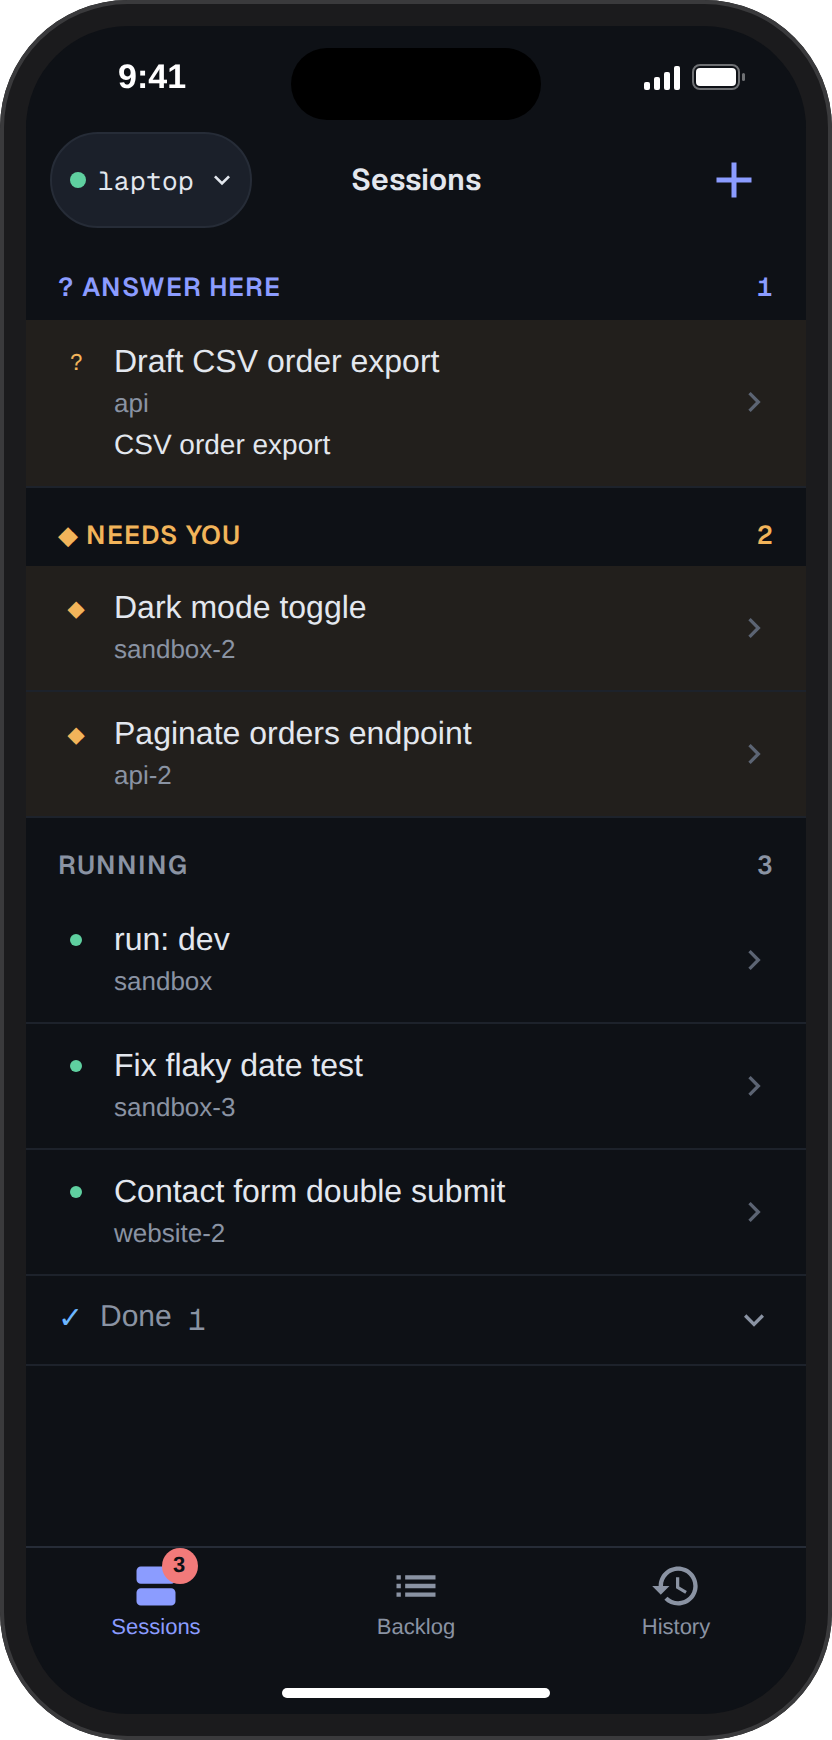
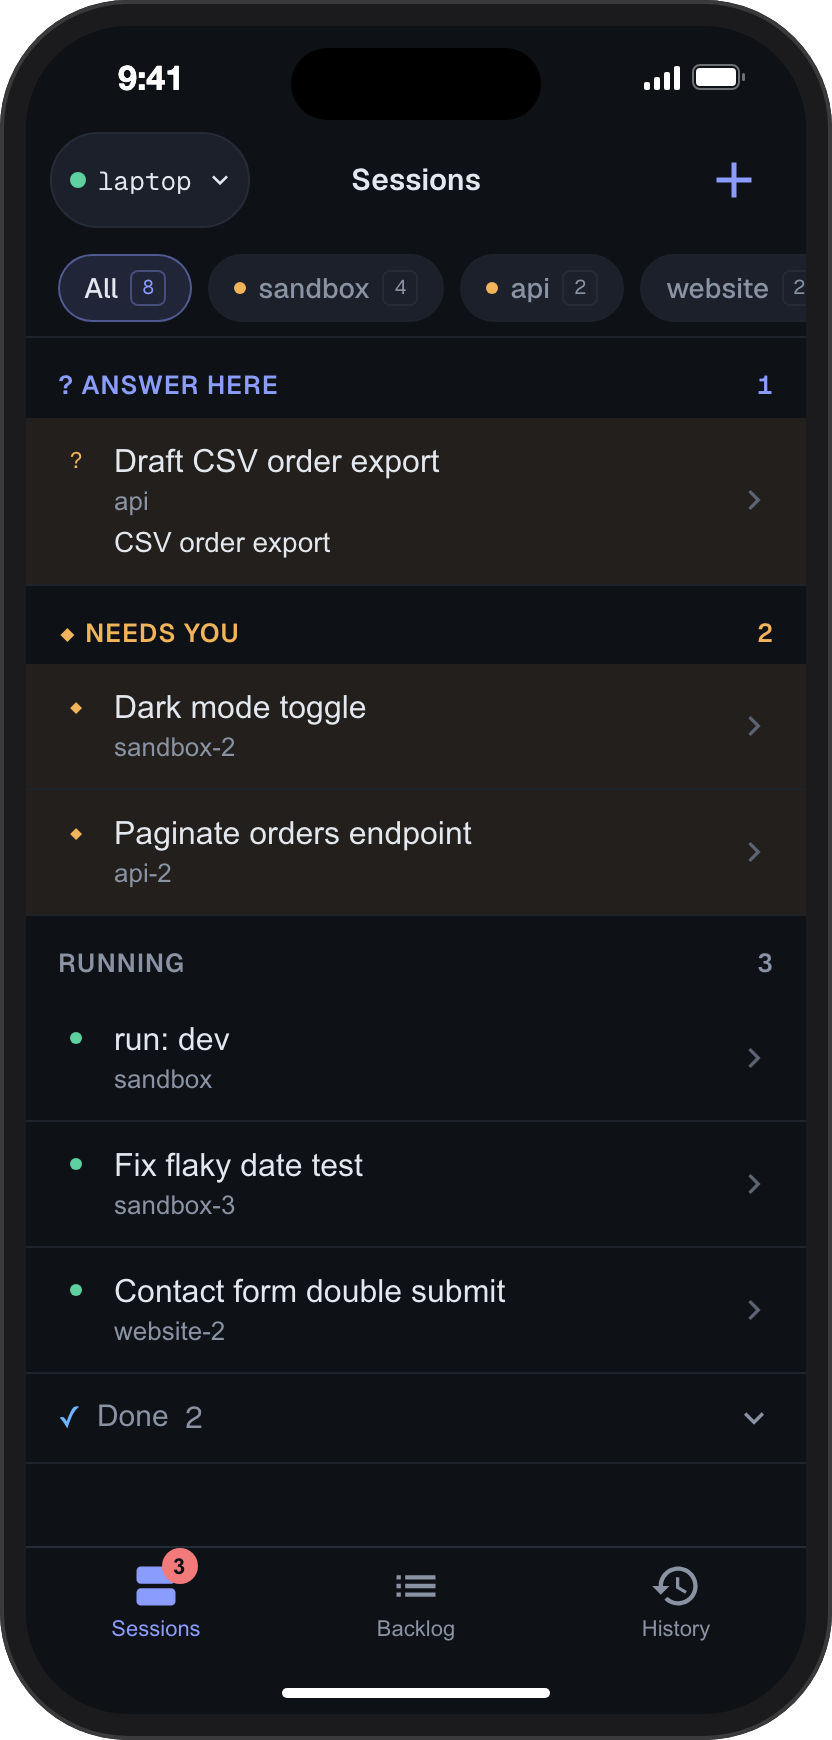
fix: refresh docs for recent stories

diff --git a/docs/src/content/docs/sessions-session-area.md b/docs/src/content/docs/sessions-session-area.md
@@ -17,13 +17,13 @@ screenshots:
       - click: text=Dark mode toggle
     crop: "[data-testid=session-top-bar]"
   - file: sessions-sdk.png
-    alt: A Claude (SDK) session showing its transcript, with the composer offering a suggested next prompt
+    alt: A Claude (SDK) session showing its transcript, with 🙄 on Claude's last reply and the composer offering a suggested next prompt
     route: /sessions
     scene: dashboard
     setup:
       - session:
           repo: website
-          prompt: Why does the footer overlap the cookie banner?
+          prompt: Why does the **footer** overlap the cookie banner in `Layout.tsx`?
           title: Cookie banner overlap
           harness: claude-sdk
           reply:
@@ -37,7 +37,7 @@ screenshots:
       width: 1280
       height: 640
   - file: sessions-sdk-queued.png
-    alt: A message queued in a Claude (SDK) session while Claude works, with its Edit and Remove buttons
+    alt: A comment on Claude's reply queued in a Claude (SDK) session while Claude works, with its Edit and Remove buttons
     route: /sessions
     scene: dashboard
     setup:
@@ -53,6 +53,9 @@ screenshots:
     actions:
       - click: text="Raise the cookie banner"
       - click: "[aria-label='Message Claude']"
+      - type: "> I'll raise the banner above it."
+      - press: Shift+Enter
+      - press: Shift+Enter
       - type: Check the modal still sits above the banner
       - press: Enter
       - hover: text=Check the modal still sits above the banner
@@ -60,7 +63,7 @@ screenshots:
       width: 1280
       height: 640
   - file: sessions-sdk-shell.png
-    alt: A shell command's output in a Claude (SDK) session, attached to the next message
+    alt: A shell command's output in a Claude (SDK) session, attached to the next message unless dropped with ×
     route: /sessions
     scene: dashboard
     setup:
@@ -127,11 +130,15 @@ A session on the [Claude (SDK)](../harnesses/#claude-sdk) harness has no termina
 In the composer:
 
 - :kbd[Enter] sends. :kbd[Shift+Enter], or :kbd[Enter] straight after a `\`, adds a line break.
-- While the field is empty after a turn, it shows the prompt Claude expects you to send next. :kbd[Tab] fills the field with it. On the phone, tap the suggestion above the reply field.
+- While the field is empty after a turn, it shows the prompt Claude expects you to send next. :kbd[Tab] or :kbd[ArrowRight] fills the field with it. On the phone, tap the suggestion above the reply field.
 - **Stop**, or :kbd[Esc], interrupts Claude's turn.
 - A message sent while Claude is working is queued until the turn ends. Hover a queued message to **Remove** it, or **Edit** it to take it back into the composer.
 
 ::screenshot{file="sessions-sdk-queued.png"}
+
+Click empty space in the transcript to put the cursor in the composer.
+
+🙄 on Claude's last reply asks it to say the same thing again, much more concisely.
 
 Select text in the transcript to comment on it, as in the [diff](../sessions-diff/#commenting).
 
@@ -141,7 +148,7 @@ Start a message with `!` to run it as a shell command in the session's working c
 
 ::screenshot{file="sessions-sdk-shell.png"}
 
-**Stop** on a running command's row, or :kbd[Esc] while it runs, stops it and keeps its output so far.
+**Stop** on a running command's row, or :kbd[Esc] while it runs, stops it and keeps its output so far. **×** on a finished command's row drops its output so it isn't attached.
 
 ## Your last message
 

diff --git a/docs/src/content/docs/cli-backlog.md b/docs/src/content/docs/cli-backlog.md
@@ -29,6 +29,7 @@ covers:
   - cli:backlog delete
   - cli:backlog comment
   - cli:backlog refresh-docs
+  - cli:backlog docs-screenshots
   - cli:docs unlock
   - cli:docs confirm
   - cli:backlog delete-comment
@@ -39,6 +40,8 @@ covers:
   - cli:backlog add-activity
   - cli:backlog record-slack
   - cli:backlog run
+  - cli:backlog run-phase
+  - cli:backlog land
   - cli:backlog next
   - cli:next
   - claude:next
@@ -97,6 +100,8 @@ These work on the current repo's [backlog](../backlog/). Item ids are written `a
 
 - `assist next [id]` (or `assist backlog next`) runs the item already in progress, or one you pick, then offers the next. With `[id]` it runs that item first; with no items left it starts `/draft`. `--once` stops after one item. In a terminal started by `assist next`, `assist draft`, `assist bug` or `assist refine`, `/next [id]` ends the current session and moves on to item `<id>`, or to whatever `assist next` picks.
 - `assist backlog run <id>` :badge[internal] runs an item's plan from the phase it is on. `--model <model>` overrides `harness.defaults.run.model` (`--no-model` runs on the harness's own default), and `--no-write` runs the harness without write access. Called by the dashboard's Build and `assist next`.
+- `assist backlog run-phase <id> <phase>` runs one of an item's ready phases in its own worktree, alongside its other ready phases, with `backlog.parallelPhases` on. `assist backlog run` starts it.
+- `assist backlog land` rebases a parallel phase's commits onto the branch it tracks, verifies again if that moved, and pushes. The agent running a parallel phase runs it.
 - `assist backlog refine [id]` :badge[internal] is the same as [`assist refine`](../launchers/). Called by agents working on backlog items.
 - `assist backlog rewind <id> <phase> --reason <reason>` :badge[internal] sends an item back to an earlier phase. Called by the review phase of a backlog run.
 - `assist backlog phase-done <id> <phase> <summary>` :badge[internal] marks a phase complete and records its summary. Called by the agent running each phase of a backlog run.
@@ -105,6 +110,7 @@ These work on the current repo's [backlog](../backlog/). Item ids are written `a
 
 - `assist backlog clone <origin>` clones an item's repo over SSH into `clone.baseDir`.
 - `assist backlog refresh-docs` queues a [Refresh docs](../backlog-docs/) story now for every done story no refresh covers yet, in a repo with `docs.refreshAfter` set, whatever its value.
+- `assist backlog docs-screenshots <refresh-id>` lists the stories a Refresh docs story covers whose commits changed UI, with the UI files each changed. Each `--story <id>=<file.png>` maps one to the screenshot that documents it, and the check passes once every one is mapped to a screenshot declared on a docs page and added or recaptured in the working tree.
 - `assist docs unlock` :badge[internal] lets the current phase of a backlog run edit docs pages and screenshots, which are otherwise left to Refresh docs, once you approve. It sends you a pin as a desktop notification. Called by agents whose docs edit was blocked.
 - `assist docs confirm <pin>` :badge[internal] approves that unlock with the pin from the notification. Called by agents whose docs edit was blocked, once you give them the pin.
 - `assist backlog move-repo <old-origin> [new-origin]` moves every item from one repo to another after a rename, the current repo when no new origin is given. `--yes` skips the prompt.

diff --git a/docs/src/content/docs/ios-app.md b/docs/src/content/docs/ios-app.md
@@ -41,6 +41,14 @@ screenshots:
     phone: true
     scene: dashboard
     waitFor: text=Dark mode toggle
+  - file: ios-app-repo-filter.png
+    alt: The iOS app session list filtered to one repo by its chip
+    route: /
+    phone: true
+    scene: dashboard
+    waitFor: text=Dark mode toggle
+    actions:
+      - click: "[aria-checked] >> text=sandbox"
   - file: ios-app-connect.png
     alt: Connecting the iOS app to a home node on first launch
     route: /
@@ -174,6 +182,12 @@ When the home node can't be reached, the app shows the error. Press **Retry now*
 
 The tab bar along the bottom switches between **Sessions**, **Backlog** and **History**.
 
+Tap a repo in the chip row above the Sessions or History list to show only that repo's entries, or **All** for every repo. A dot on a repo's chip means one of its sessions needs you. The app remembers your choice across tabs and launches.
+
+::screenshot{file="ios-app-repo-filter.png"}
+
+On a History entry's transcript, **Resume** starts it again as a live session and opens it. Tap the conversation id under the title to copy it.
+
 ::screenshot{file="ios-app-backlog.png"}
 
 On a backlog item, pick the node and harness to run on, then tap **Start** to run it, or **Refine** to start refining it in a new session.
@@ -186,7 +200,7 @@ Tap **⋯** on a session's screen, or long-press its row in the list, for its ac
 - **Auto-advance phases** is the dashboard's [Continue](../backlog-running/#steering-a-run) toggle for a backlog run.
 - **Transfer to node** moves a backlog run to another node.
 - :icon[Replay] **Start over session**, beside :icon[Replay] **Restart session**, discards the conversation and starts a new one with only the session's first prompt.
-- Tap the `#` number in the header to copy the session's id.
+- Tap the `#` number in the header to copy the session's id, or the conversation id beneath it to copy the harness's id for the conversation.
 
 ::screenshot{file="ios-app-actions.png"}
 

diff --git a/docs/src/content/docs/cli-github.md b/docs/src/content/docs/cli-github.md
@@ -32,9 +32,9 @@ covers:
 
 These back [`/github`](../github-issues/). Each takes `-R <owner/repo>` for an issue outside the current repo.
 
-- `assist github issue create` :badge[internal] files an issue from `--title` and `--body`, with `--label`, `--milestone`, `--project`, `--status`, `--type` and `--parent`. Called by `/github create`.
-- `assist github issue edit <number>` :badge[internal] reworks an issue's description in the preview pane, or with `--parent <issue>` makes it a sub-issue. Called by `/github`.
-- `assist github issue comment <number>` :badge[internal] comments on an issue with `--body`. Called by `/github update`.
+- `assist github issue create` :badge[internal] files an issue from `--title` and `--body`, with `--label`, `--milestone`, `--project`, `--status`, `--type` and `--parent`, and attaches each `--screenshot '[Group/]Caption=path'` under the issue's `## Screenshots` section. Called by `/github create`.
+- `assist github issue edit <number>` :badge[internal] reworks an issue's description in the preview pane, renames it with `--title`, attaches images with `--screenshot`, or with `--parent <issue>` makes it a sub-issue. Called by `/github`.
+- `assist github issue comment <number>` :badge[internal] comments on an issue with `--body`, attaching images with `--screenshot`. Called by `/github update`.
 - `assist github issue edit-comment <comment-id>` :badge[internal] replaces a posted comment with `--body`. Called by agents revising an issue comment.
 - `assist github issue started <number>` :badge[internal] assigns the issue to you and moves it to In Progress on its boards. Called by `/github started`.
 - `assist github issue unassign <number>` :badge[internal] removes you, or each `--assignee` login, from the issue's assignees. Called by agents removing an assignee.

diff --git a/docs/src/content/docs/working-on-assist.md b/docs/src/content/docs/working-on-assist.md
@@ -8,12 +8,12 @@ covers: []
 
 ## Run from a clone
 
-To work on assist itself, install it from a clone instead of npm:
+To work on assist itself, install it from a clone instead of npm. The clone installs its dependencies with [pnpm](https://pnpm.io/installation):
 
 ```bash
 git clone git@github.com:staff0rd/assist.git
 cd assist
-npm install
+pnpm install
 npm run build
 npm install -g .
 ```
@@ -38,6 +38,6 @@ assist config set worktree.trunk true
 assist config set autoUpdate.enabled true
 ```
 
-The `auto-build` run entry is what an update runs after pulling. This repo's `assist.yml` already defines it to run `npm i`, then the build script. Without one, an update pulls but does not build.
+The `auto-build` run entry is what an update runs after pulling. This repo's `assist.yml` already defines it to run `pnpm install`, then the build script. Without one, an update pulls but does not build.
 
 See [Parallel work](../sessions-parallel-work/) for how worktrees and `worktree.trunk` behave, and [Updating assist](../updating/) for how updates are paused, checked and restarted.

diff --git a/docs/src/content/docs/backlog-running.md b/docs/src/content/docs/backlog-running.md
@@ -3,7 +3,9 @@ id: backlog-running
 title: Running items
 group: Backlog
 order: 2
-covers: []
+covers:
+  - config:backlog.parallelPhases
+  - config:backlog.maxParallelPhases
 screenshots:
   - file: backlog-build.png
     alt: The Build button on a todo item in the backlog list
@@ -82,3 +84,12 @@ The run's card in the [sidebar](../sessions-sidebar/) shows :status[running] whi
 ::screenshot{file="backlog-dismiss.png"}
 
 Every run ends with a review phase, added automatically after the item's own phases. Its session checks the work against each acceptance criterion and fixes what fails. Tell it the item is done once you're happy, or use **Done** on the session's top bar; the item is then marked done.
+
+## Running phases in parallel
+
+With the experimental `backlog.parallelPhases` on, a run starts the phases that don't depend on each other at the same time, each in its own worktree and session. `backlog.maxParallelPhases` caps how many run at once (3 by default):
+
+```bash
+assist config set backlog.parallelPhases true
+assist config set backlog.maxParallelPhases 2
+```

diff --git a/docs/src/content/docs/cli-db.md b/docs/src/content/docs/cli-db.md
@@ -8,6 +8,7 @@ covers:
   - cli:db drop-retired
   - cli:schema unlock
   - cli:schema confirm
+  - cli:schema lock
 ---
 
 [Getting started](../getting-started/) sets up the database and applies its migrations with `assist db migrate`.
@@ -23,3 +24,4 @@ These apply when working on assist itself, where an agent can't change the datab
 
 - `assist schema unlock` :badge[internal] sends a pin to your desktop notifications, authorising schema changes for the session's backlog item phase, or for the Claude session when there is no item. Called by agents whose schema change was blocked.
 - `assist schema confirm <pin>` :badge[internal] approves those schema changes. Called by agents whose schema change was blocked, with the pin you give them.
+- `assist schema lock` revokes that approval, for the session's backlog item phase, or the Claude session when there is no item.

diff --git a/docs/src/content/docs/backlog-docs.md b/docs/src/content/docs/backlog-docs.md
@@ -103,7 +103,7 @@ To queue one now, click **Refresh docs** at the top of the Backlog tab. It count
 
 ## Reviewing a refresh
 
-[Run](../backlog-running/) the Refresh docs story like any other. The agent reads each covered story and its commits, updates the pages for what changed for users, and asks you to approve the changes, listing each changed page with a link to it in the docs preview at http://localhost:4173.
+[Run](../backlog-running/) the Refresh docs story like any other. The agent reads each covered story and its commits, updates the pages for what changed for users, adds or recaptures a screenshot for each story that changed UI, and asks you to approve the changes, listing each changed page with a link to it in the docs preview at http://localhost:4173 and each UI story with its screenshot.
 
 ::screenshot{file="backlog-docs-review.png"}
 

diff --git a/docs/src/content/docs/github-issues.md b/docs/src/content/docs/github-issues.md
@@ -20,7 +20,7 @@ Run `/github` in a session to work with a GitHub issue. Name an issue as `owner/
 | `/github done [issue]`           | Closes the issue                                                                          |
 | `/github help`                   | Lists these                                                                               |
 
-Everything that changes the issue, its description, a new issue or a comment, opens in the preview pane for you to approve first. Drop or paste screenshots onto the pane to attach them.
+Every change to an issue opens in the preview pane for your approval. Drop or paste screenshots onto the pane to attach them, or ask the agent to add one.
 
 ## Creating an issue
 

diff --git a/docs/src/content/docs/cli-review.md b/docs/src/content/docs/cli-review.md
@@ -15,6 +15,7 @@ covers:
   - `--submit` answers yes to posting by default, and `--no-prompt` skips every question.
   - `--backlog` files the findings as one [backlog](../backlog/) bug, with a phase per finding, instead of posting them.
   - `--force`, `--address-comments` and `--announce` match the menu's options.
+  - `--reuse-slices`, with `--high-level`, reopens the review from the slices saved for the pull request's current head without slicing again, matching **Reopen high-level review**.
   - `--checkout-only` checks the pull request out and leaves an idle agent in it, without reviewing.
   - `--verbose` prints a line per step instead of spinners.
 

diff --git a/docs/src/content/docs/sessions-high-level-review.md b/docs/src/content/docs/sessions-high-level-review.md
@@ -175,7 +175,7 @@ The rail on the left lists **Overview**, then each slice with its line counts an
 ::screenshot{file="sessions-high-level-manual-testing.png"}
 
 - **All files** shows every changed file as a tree with its line counts, each tagged with the slices it's in. Click a tag to go to that slice.
-- **Backend PR** asks whether a change that needs backend work links the backend pull request, with the description beneath to check.
+- **Related PRs** asks whether a change that spans repos links its pull requests in the other repos, with the description beneath to check.
 
 Each slice has its own items, ticked and commented separately:
 

diff --git a/docs/src/content/docs/sessions-daemon.md b/docs/src/content/docs/sessions-daemon.md
@@ -5,6 +5,7 @@ group: Sessions
 order: 7
 covers:
   - config:sessions.maxLive
+  - config:sessions.nodeVersion
 ---
 
 ## Where sessions live
@@ -21,4 +22,12 @@ One daemon holds at most 24 live sessions, and starting another past that is ref
 
 ```bash
 assist config set sessions.maxLive 32
+```
+
+## Node version
+
+The web server and daemon run on whichever Node.js launched assist, and so do the agents they start. To pin them to another, give a version or range installed with fnm, nvm or volta, or the path to a Node.js binary:
+
+```bash
+assist config set sessions.nodeVersion 24.22.1 --node
 ```
